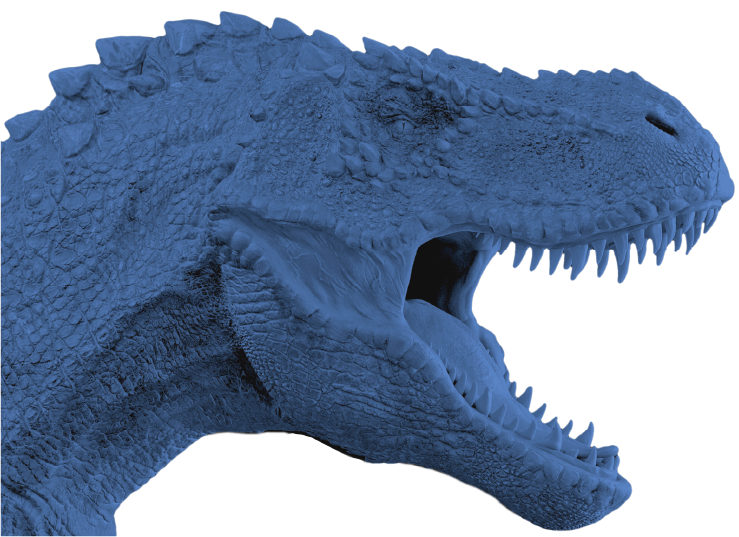
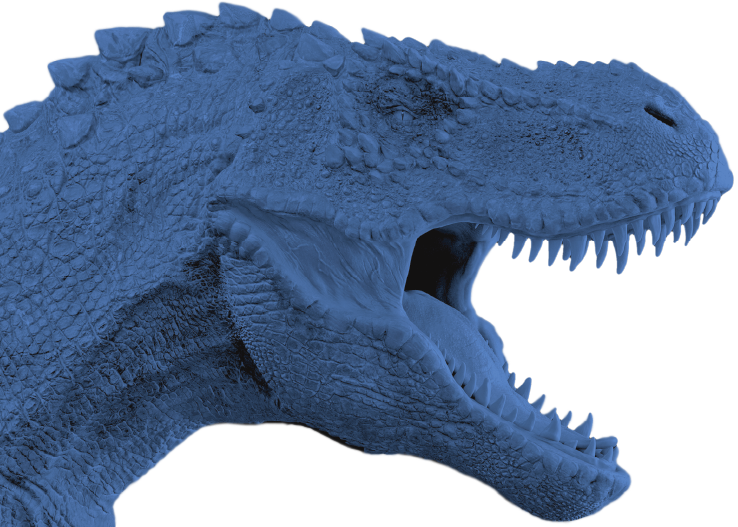
added comments to explain what the js code is doing

diff --git a/js/archelix.js b/js/archelix.js
@@ -2,57 +2,96 @@
    Back-to-Top Button Visibility
    ========================================================================== */
 
-const topButton = document.querySelector('.back-to-top');
+// Select the back-to-top button from the DOM and store it in a constant.
+// `const` is a block-scoped variable and cannot be reassigned.
+const topButton = document.querySelector('.back-to-top'); // [HTMLElement or null]
 
+// Add a scroll event listener to the window object
 window.addEventListener('scroll', () => {
+    // Get the vertical scroll distance from the top of the document.
+    // `scrollTop` is a number (in pixels).
     const scrollTop = document.body.scrollTop || document.documentElement.scrollTop;
+    console.log(`[Back-to-Top] Scroll position: ${scrollTop}`);
+    // Toggle the 'show' class if scrollTop is greater than 20.
+    // `toggle(className, condition)` adds class if condition is true, removes if false.
     topButton.classList.toggle('show', scrollTop > 20);
 });
+
+
+
+
 
 /* ==========================================================================
    Scroll-triggered Slide-in Animation
    ========================================================================== */
 
+// Define a function that checks for .slide-in-left and .slide-in-right elements
 function animateOnScroll() {
-    const elements = document.querySelectorAll('.slide-in-left, .slide-in-right');
-    const windowHeight = window.innerHeight;
+    // Get all elements with these classes and store in a NodeList
+    const elements = document.querySelectorAll('.slide-in-left, .slide-in-right'); // [NodeList of Elements]
 
+    // Get the height of the visible browser window (viewport)
+    const windowHeight = window.innerHeight; // [Number]
+    console.log(`[Slide-In] Window height: ${windowHeight}`);
+
+    // Loop through each slide-in element
     elements.forEach(el => {
-        const elementTop = el.getBoundingClientRect().top;
+        // Get the distance from the top of the viewport to the element
+        const elementTop = el.getBoundingClientRect().top; // [Number]
+        console.log(`[Slide-In] ${el.className} top: ${elementTop}`);
+
+        // If the element is within 100px of entering the viewport, make it visible
         if (elementTop < windowHeight - 100) {
-            el.classList.add('visible');
+            el.classList.add('visible'); // Adds class which triggers CSS animation
+            console.log(`[Slide-In] ${el.className} made visible`);
         }
     });
 }
 
-// Run animation on scroll and page load
-window.addEventListener('scroll', animateOnScroll);
-window.addEventListener('load', animateOnScroll);
+// Attach the animation function to both scroll and load events
+window.addEventListener('scroll', animateOnScroll); // Triggers when user scrolls
+window.addEventListener('load', animateOnScroll);   // Triggers once page fully loads
 
-/* ==========================================================================
-   Smooth Scrolling
-   ========================================================================== */
 
-// Add slide-in animation to headings and paragraphs on page load   
+
+
+
 /* ==========================================================================
    Slide-Up on Scroll for Headings and Paragraphs
    ========================================================================== */
 
-function animateSlideUp() {
-    const slideText = document.querySelectorAll('.slide-up');
-    const windowHeight = window.innerHeight;
+// Add slide-in animation to headings and paragraphs on page load   
 
+// Define a function for animating text (headings, paragraphs, etc.) to slide up
+function animateSlideUp() {
+    // Select all elements with .slide-up (added below)
+    const slideText = document.querySelectorAll('.slide-up'); // [NodeList of Elements]
+
+    // Get current height of the browser window
+    const windowHeight = window.innerHeight; // [Number]
+    console.log(`[Slide-Up] Window height: ${windowHeight}`);
+
+    // Loop through each .slide-up element
     slideText.forEach(el => {
-        const elementTop = el.getBoundingClientRect().top;
+        // Get the distance from the top of the viewport to the element
+        const elementTop = el.getBoundingClientRect().top; // [Number]
+        console.log(`[Slide-Up] ${el.tagName} top: ${elementTop}`);
+
+        // If the element is in view (with 60px buffer), add the 'visible' class
         if (elementTop < windowHeight - 60) {
-            el.classList.add('visible');
+            el.classList.add('visible'); // Triggers slide-up animation via CSS
+            console.log(`[Slide-Up] ${el.tagName} made visible`);
         }
     });
 }
 
-// Run on scroll and load
-window.addEventListener('scroll', animateSlideUp);
-window.addEventListener('load', animateSlideUp);
+// Run the animation function on scroll and load
+window.addEventListener('scroll', animateSlideUp); // When user scrolls
+window.addEventListener('load', animateSlideUp);   // When page finishes loading
+
+// Automatically apply the slide-up class to common text elements (optional automation)
 document.querySelectorAll('h1, h2, h3, ul, p').forEach(el => {
+    // Add the slide-up class so they can be animated on scroll
     el.classList.add('slide-up');
+    console.log(`[Init] Added slide-up to <${el.tagName.toLowerCase()}>`);
 });

diff --git a/index.html b/index.html
@@ -61,7 +61,8 @@
                             EXPERIENCE THE PAST, POWERED BY THE FUTURE
                         </h1>
                         <div class="text-center text-lg-start mt-4 pt-md-1">
-                            <a class="btn btn-outline-blue txt-md txt-tan d-grid-mobile px-4" href="#"><b>LAUNCH EXPERIENCE</b></a>
+                            <a class="btn btn-outline-blue txt-md txt-tan d-grid-mobile px-4" href="#"><b>LAUNCH
+                                    EXPERIENCE</b></a>
                         </div>
                     </div>
                     <div class="col-12 col-lg-6"></div>
@@ -85,7 +86,8 @@
                             modern technology.
                         </p>
                         <div class="text-center mt-4 pt-3">
-                            <a class="btn btn-outline-tan txt-tan txt-md d-grid-mobile px-4" href="#">Discover the Tech</a>
+                            <a class="btn btn-outline-tan txt-tan txt-md d-grid-mobile px-4" href="#"><b>Discover the
+                                    Tech</b></a>
                         </div>
                     </div>
                 </div>
@@ -123,7 +125,8 @@
                             community? Reach out below.
                         </p>
                         <div class="text-center text-lg-start mt-4 pt-3">
-                            <a class="btn btn-outline-tan txt-tan d-grid-mobile px-4" href="#">Let’s Talk Exhibits</a>
+                            <a class="btn btn-outline-tan txt-tan d-grid-mobile px-4" href="#"><b>Let’s Talk
+                                    Exhibits</b></a>
                         </div>
                     </div>
                     <div class="col-12 col-lg-6"></div>
@@ -149,7 +152,8 @@
                             <li>The Archelix Digest – our robotics & AI magazine</li>
                         </ul>
                         <div class="text-center text-lg-start mt-4">
-                            <a class="btn btn-outline-tan txt-tan d-grid-mobile px-4" href="#">Join the Future</a>
+                            <a class="btn btn-outline-tan txt-tan d-grid-mobile px-4" href="#"><b>Join the
+                                    Future</b></a>
                         </div>
                     </div>
                 </div>

diff --git a/css/styles.css b/css/styles.css
@@ -266,7 +266,7 @@ h1 {
 
 .t-rex {
     position: absolute;
-    width: 38.9%;
+    width: 39.48%;
 }
 
 /* Newsletter Section */
